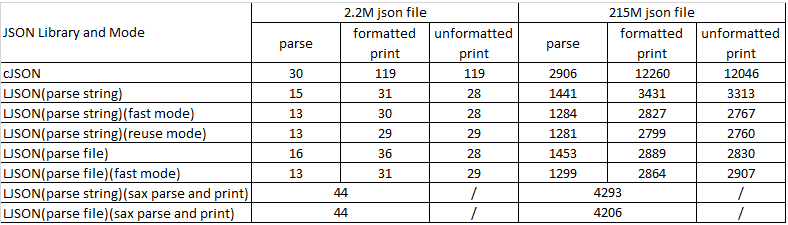
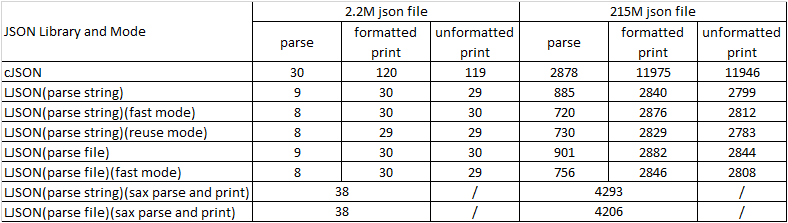
Optimize number parsing

diff --git a/json.c b/json.c
@@ -11,6 +11,7 @@
 #include <math.h>
 #include <unistd.h>
 #include <fcntl.h>
+#include <limits.h>
 #include "json.h"
 
 /**************** definition ****************/
@@ -669,7 +670,6 @@ static void *pjson_memory_alloc(size_t size, json_mem_mgr_t *mgr)
         data_size = size + mgr->align_size - 1;
         data_size -= data_size % mgr->align_size;
     }
-    block_size = (data_size > mgr->mem_size) ? data_size : mgr->mem_size;
 
     if (mgr->cur_node->cur + data_size <= mgr->cur_node->ptr + mgr->cur_node->size) {
         goto end;
@@ -684,6 +684,7 @@ static void *pjson_memory_alloc(size_t size, json_mem_mgr_t *mgr)
         }
     }
 
+    block_size = (data_size > mgr->mem_size) ? data_size : mgr->mem_size;
     if (_json_mem_new(block_size, mgr) != NULL) {
         mgr->cur_node = (json_mem_node_t *) (mgr->head.next);
         goto end;
@@ -1612,12 +1613,12 @@ static inline void _update_parse_offset(json_parse_t *parse_ptr, int num)
 
 static inline void _skip_blank(json_parse_t *parse_ptr)
 {
-    char *str = NULL;
+    unsigned char *str = NULL;
     unsigned char c = 0;
     int cnt = 0;
 
-    while (_get_parse_ptr(parse_ptr, cnt, 64, &str) != 0) {
-        while ((c = *(unsigned char *)str)) {
+    while (_get_parse_ptr(parse_ptr, cnt, 64, (char **)&str) != 0) {
+        while ((c = *str)) {
             if (c <= ' ') {
                 str++, ++cnt;
             } else {
@@ -1628,63 +1629,108 @@ static inline void _skip_blank(json_parse_t *parse_ptr)
     }
 }
 
-static int _parse_num(char **sstr, json_number_t *vnum, bool check_hex)
+static inline bool _hex_char_check(char c)
 {
-#define _HEX_CHECK(x)  ((x >= '0' && x <= '9') || (x >= 'a' && x <= 'f') || (x >= 'A' && x <= 'F'))
-#define _HEX_CAL(y,x)  do {                             \
-    if      (x >= '0' && x <= '9') y = x - '0';         \
-    else if (x >= 'a' && x <= 'f') y = 10 + x - 'a';    \
-    else if (x >= 'A' && x <= 'F') y = 10 + x - 'A';    \
-    else                           y = 0;               \
-} while (0)
+    bool ret = false;
 
+    switch (c) {
+    case '0': case '1': case '2': case '3': case '4':
+    case '5': case '6': case '7': case '8': case '9':
+    case 'a': case 'b': case 'c': case 'd': case 'e': case 'f':
+    case 'A': case 'B': case 'C': case 'D': case 'E': case 'F':
+        ret = true;
+        break;
+    default:
+        break;
+    }
+
+    return ret;
+}
+
+static inline bool _dec_char_check(char c)
+{
+    bool ret = false;
+
+    switch (c) {
+    case '0': case '1': case '2': case '3': case '4':
+    case '5': case '6': case '7': case '8': case '9':
+        ret = true;
+        break;
+    default:
+        break;
+    }
+
+    return ret;
+}
+
+static inline unsigned int _hex_char_calculate(char c)
+{
+    unsigned int ret = 0;
+
+    switch (c) {
+    case '0': case '1': case '2': case '3': case '4':
+    case '5': case '6': case '7': case '8': case '9':
+        ret = c - '0';
+        break;
+    case 'a': case 'b': case 'c': case 'd': case 'e': case 'f':
+        ret = 10 + c - 'a';
+        break;
+   case 'A': case 'B': case 'C': case 'D': case 'E': case 'F':
+        ret = 10 + c - 'A';
+        break;
+    default:
+        break;
+    }
+
+    return ret;
+}
+
+static int _parse_num(char **sstr, json_number_t *vnum)
+{
+    int sign = 1;
+    unsigned long long int k = 1, m = 0, n = 0;
+    double d = 0;
     char *num = *sstr;
-    if (*num == '0' && (*(num+1) == 'x' || *(num+1) == 'X') && _HEX_CHECK(*(num+2))) {
-        unsigned int m = 0, n = 0;
-        if (!check_hex)
-            return JSON_NULL;
-        num += 2;
-        do {
-            _HEX_CAL(m, *num); n = (n << 4) + m; num++;
-        } while (_HEX_CHECK(*num));
 
-        vnum->vhex = n;
+    if (*num == '0' && (*(num+1) == 'x' || *(num+1) == 'X')) {
+        num += 2;
+        while (_hex_char_check(*num))
+            m = (m << 4) + _hex_char_calculate(*num++);
+
         *sstr = num;
+        vnum->vhex = m;
         return JSON_HEX;
     } else {
-        double m = 0, n = 0;
-        int sign = 1, scale = 0;
-
-        if (*num == '-') num++, sign = -1;
-        else if (*num == '+') num++;
-        while (*num == '0') num++;
-
-        if (*num >= '1' && *num <= '9') {
-            do {
-                m = (m * 10) + (*num++ - '0');
-            } while (*num >= '0' && *num <= '9');
+        switch (*num) {
+        case '-': num++; sign = -1; break;
+        case '+': num++; break;
+        default: break;
         }
 
-        if (*num=='.' && *(num+1) >= '0' && *(num+1) <= '9') {
+        while (*num == '0')
             num++;
-            do {
-                m = (m * 10) + (*num++ - '0');
-                scale--;
-            } while (*num >= '0' && *num <= '9');
-            n = sign * m * pow (10.0, scale);
+        while (_dec_char_check(*num))
+            m = (m << 3) + (m << 1) + (*num++ - '0');
 
-            vnum->vdbl = n;
+        if (*num == '.') {
+            num++;
+            while (_dec_char_check(*num)) {
+                n = (n << 3) + (n << 1) + (*num++ - '0');
+                k = (k << 3) + (k << 1);
+            }
+            d = m + 1.0 * n / k;
+
             *sstr = num;
+            vnum->vdbl = sign == 1 ? d : -d;
             return JSON_DOUBLE;
         } else {
-            n = sign * m;
             *sstr = num;
-            if ((int)n == n) {
-                vnum->vint = (int)n;
-                return JSON_INT;
-            } else {
-                vnum->vdbl = n;
+            if (m > INT_MAX) {
+                vnum->vdbl = sign == 1 ? m : -m;
                 return JSON_DOUBLE;
+            } else {
+                vnum->vint = sign == 1 ? m : -m;
+                return JSON_INT;
             }
         }
     }
@@ -1692,39 +1738,35 @@ static int _parse_num(char **sstr, json_number_t *vnum, bool check_hex)
     return JSON_NULL;
 }
 
-static json_type_t _json_parse_number(char **sstr, json_number_t *vnum) //int *vint, unsigned int *vhex, double *vdbl)
+static json_type_t _json_parse_number(char **sstr, json_number_t *vnum)
 {
     json_type_t ret = JSON_NULL;
+    json_type_t tret = JSON_NULL;
+    json_number_t tnum;
+    double nbase = 0, nindex = 0;
 
-    ret = _parse_num(sstr, vnum, true);
+    ret = _parse_num(sstr, vnum);
     switch (ret) {
     case JSON_HEX:
         return ret;
     case JSON_INT:
     case JSON_DOUBLE:
-        {
-            char val = **sstr;
-            if (val != 'e' && val != 'E') {
-                return ret;
-            } else {
-                json_type_t tret = 0;
-                json_number_t tnum;
-                double nbase = 0, nindex = 0;
-
-                *sstr += 1;
-                nbase = (ret == JSON_INT) ? vnum->vint : vnum->vdbl;
-                tret = _parse_num(sstr, &tnum, false);
-                switch (tret) {
-                case JSON_INT:
-                case JSON_DOUBLE:
-                    nindex = (tret == JSON_INT) ? tnum.vint : tnum.vdbl;
-                    vnum->vdbl = nbase * pow (10.0, nindex);
-                    return JSON_DOUBLE;
-                default:
-                    return JSON_NULL;
-                }
+        switch (**sstr) {
+        case 'e': case 'E':
+            *sstr += 1;
+            nbase = (ret == JSON_INT) ? vnum->vint : vnum->vdbl;
+            tret = _parse_num(sstr, &tnum);
+            switch (tret) {
+            case JSON_INT: nindex = tnum.vint; break;
+            case JSON_DOUBLE: nindex = tnum.vdbl; break;
+            default: return JSON_NULL;
             }
+            vnum->vdbl = nbase * pow (10.0, nindex);
+            return JSON_DOUBLE;
+        default:
+            return ret;
         }
+        break;
     default:
         return JSON_NULL;
     }
@@ -1736,15 +1778,21 @@ static inline unsigned int _parse_hex4(const unsigned char *str)
     unsigned int val = 0;
 
     for (i = 0; i < 4; i++) {
-        if ((str[i] >= '0') && (str[i] <= '9')) {
+        switch (str[i]) {
+        case '0': case '1': case '2': case '3': case '4':
+        case '5': case '6': case '7': case '8': case '9':
             val += str[i] - '0';
-        } else if ((str[i] >= 'A') && (str[i] <= 'F')) {
-            val += 10 + str[i] - 'A';
-        } else if ((str[i] >= 'a') && (str[i] <= 'f')) {
+            break;
+        case 'a': case 'b': case 'c': case 'd': case 'e': case 'f':
             val += 10 + str[i] - 'a';
-        } else {
+            break;
+       case 'A': case 'B': case 'C': case 'D': case 'E': case 'F':
+            val += 10 + str[i] - 'A';
+            break;
+        default:
             return 0;
         }
+
         if (i < 3) { /* shift left to make place for the next nibble */
             val = val << 4;
         }
@@ -2128,7 +2176,6 @@ json_object *json_parse_common(json_parse_choice_t *choice)
     json_object *json = NULL;
     json_parse_t parse_val = {0};
     size_t mem_size = 0, total_size = 0;
-
 
     parse_val.read_size = parse_val.read_size ? parse_val.read_size : JSON_PARSE_READ_SIZE_DEF;
     parse_val.mem = choice->mem ? choice->mem : &s_invalid_json_mem;

diff --git a/json_test.c b/json_test.c
@@ -279,6 +279,7 @@ int main(int argc, char *argv[])
             return -1;
     }
 
+    snprintf(s_dst_json_path, sizeof(s_dst_json_path), "%s-%d.format.json", file, choice);
     switch(choice)
     {
         case 1:

diff --git a/README.md b/README.md
@@ -23,10 +23,12 @@
 ### 测试结果
 
 > 测试平台: Nationalchip STB | CPU: CSKY | DDR3: 128MB, 533MHz | OS: ECOS
+> 注: 老版本测试结果，新的版本比这更快
 
 ![ECOS测试结果](./json_test.png)
 
 > 测试平台: Ubuntu 18.04
+> 测试源: [canada.json](https://github.com/miloyip/nativejson-benchmark/blob/master/data/canada.json)
 
 ![Ubuntu测试结果](./json_test2.png)
 
